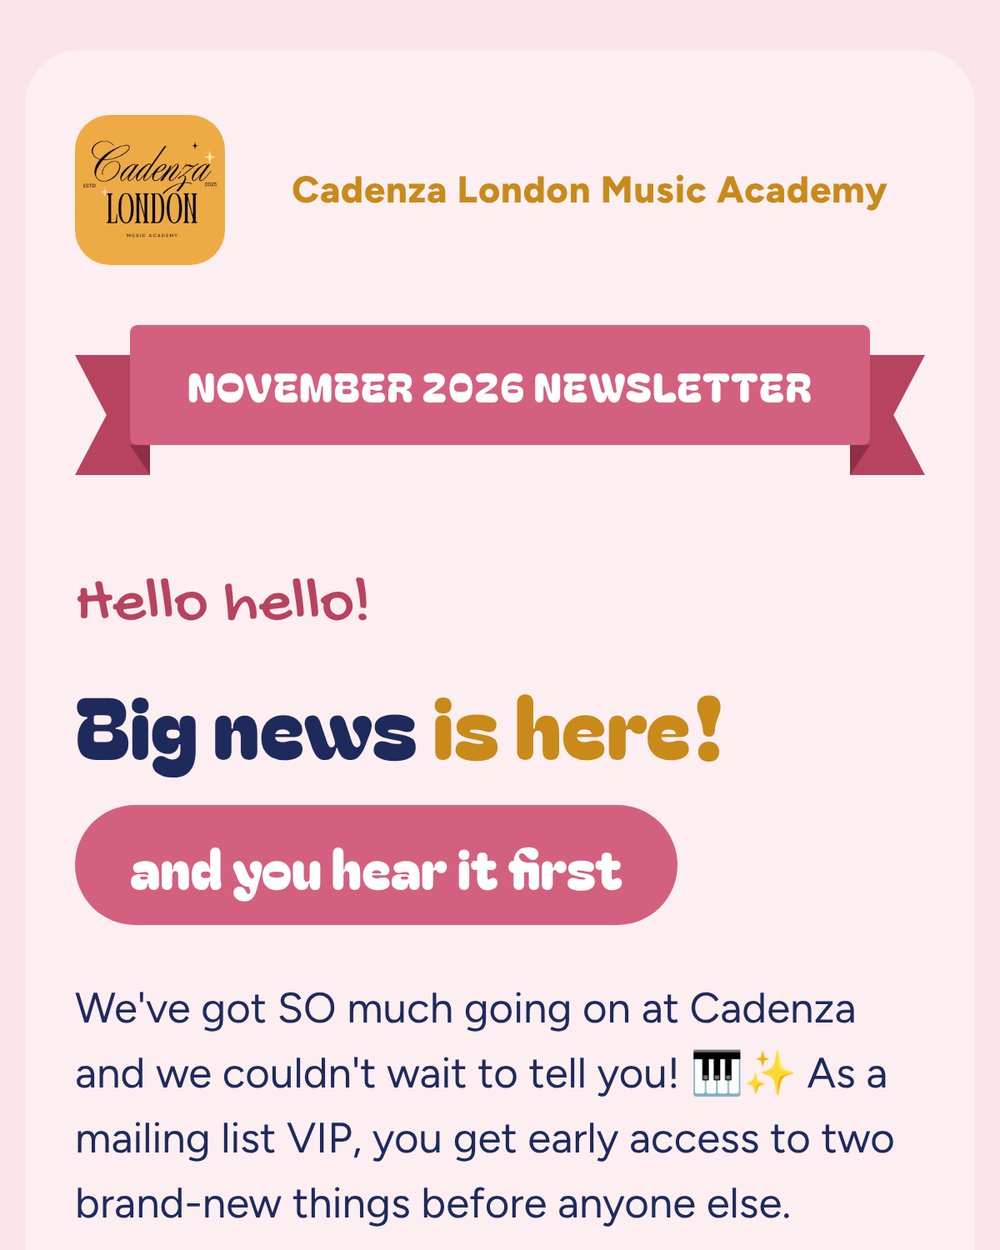
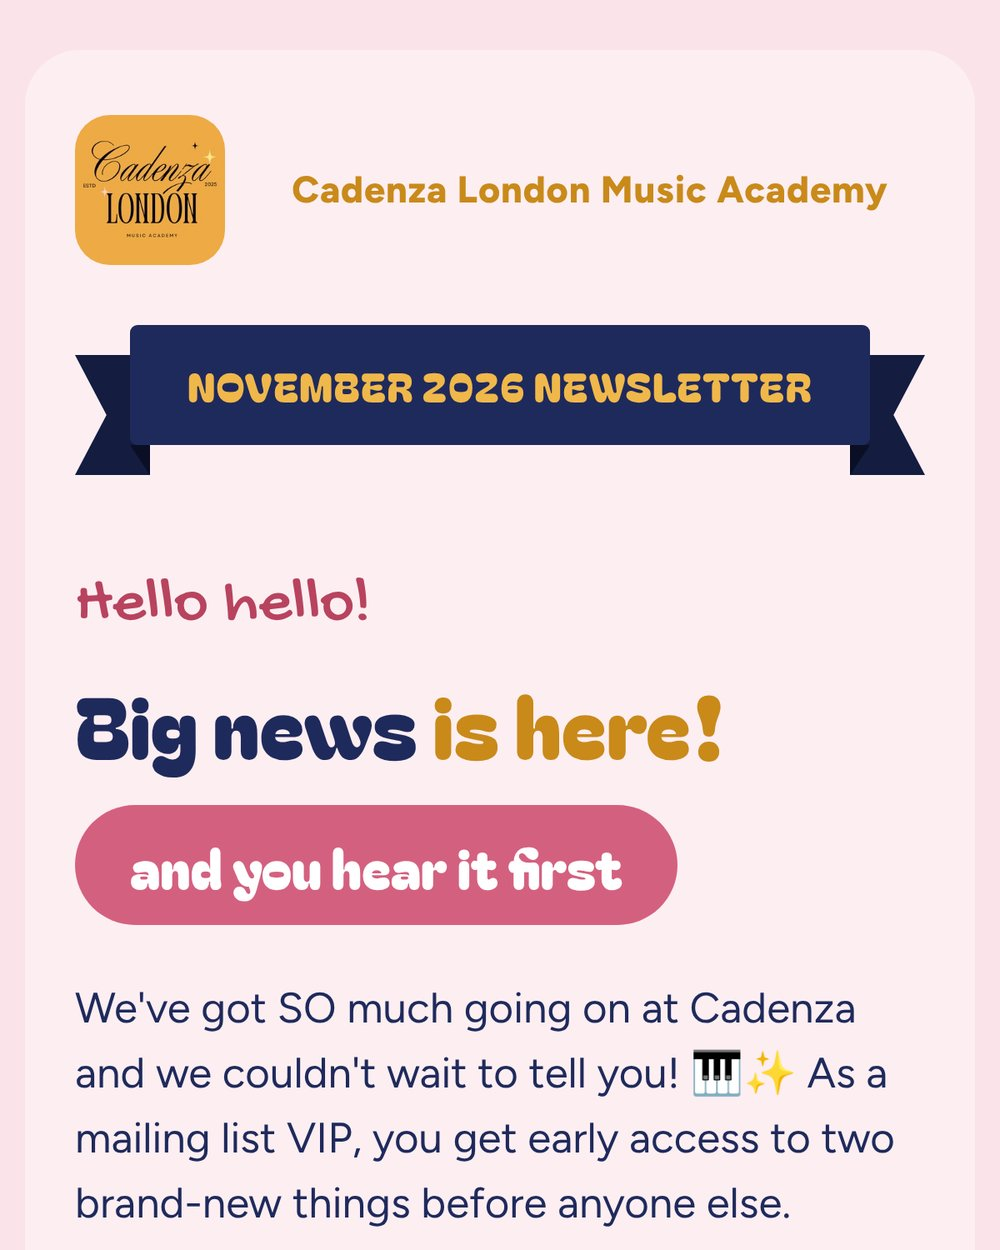
Newsletter Nov 2026: navy ribbon with gold title
Claude-Session: https://claude.ai/code/session_015bt2nYSBxtEEo5rA4rXfs1

Changed region(s): [[0.062, 0.2496, 0.93, 0.4056]]

diff --git a/newsletter-nov2026/email/index.html b/newsletter-nov2026/email/index.html
@@ -26,22 +26,22 @@ Early access: our new Sight-Reading Club is FREE until 31 Dec, the Digital Exam 
 
 <table role="presentation" width="480" cellpadding="0" cellspacing="0" border="0" style="width:100%;max-width:480px;">
   <tr><td style="padding:0;line-height:0;font-size:0;">
-    <a href="https://cadenza-london.com/newsletter-nov2026/" target="_blank"><img src="https://cadenza-london.com/newsletter-nov2026/email/part1.jpg?v=6" width="480" alt="Cadenza London Music Academy. November 2026 Newsletter. Hello hello! Big news is here, and you hear it first. We've got so much going on at Cadenza: as a mailing list VIP, you get early access to two brand-new things before anyone else." style="display:block;width:100%;max-width:480px;height:auto;"></a>
+    <a href="https://cadenza-london.com/newsletter-nov2026/" target="_blank"><img src="https://cadenza-london.com/newsletter-nov2026/email/part1.jpg?v=7" width="480" alt="Cadenza London Music Academy. November 2026 Newsletter. Hello hello! Big news is here, and you hear it first. We've got so much going on at Cadenza: as a mailing list VIP, you get early access to two brand-new things before anyone else." style="display:block;width:100%;max-width:480px;height:auto;"></a>
   </td></tr>
   <tr><td style="padding:0;line-height:0;font-size:0;">
-    <a href="https://cadenza-london.com/sight-reading-club#book" target="_blank"><img src="https://cadenza-london.com/newsletter-nov2026/email/part2.jpg?v=6" width="480" alt="New launch: Sight-Reading Club starts Tuesday 3 November, free every session until 31 December. Weekly on Zoom, Tuesdays 6:00–6:45pm, 8 players max. Beginner Grades 1–3, Intermediate Grades 4–6. From January £8/£10 a session or monthly plans from £15; Cadenza students get 1 free session a month. Tap to book your free place." style="display:block;width:100%;max-width:480px;height:auto;"></a>
+    <a href="https://cadenza-london.com/sight-reading-club#book" target="_blank"><img src="https://cadenza-london.com/newsletter-nov2026/email/part2.jpg?v=7" width="480" alt="New launch: Sight-Reading Club starts Tuesday 3 November, free every session until 31 December. Weekly on Zoom, Tuesdays 6:00–6:45pm, 8 players max. Beginner Grades 1–3, Intermediate Grades 4–6. From January £8/£10 a session or monthly plans from £15; Cadenza students get 1 free session a month. Tap to book your free place." style="display:block;width:100%;max-width:480px;height:auto;"></a>
   </td></tr>
   <tr><td style="padding:0;line-height:0;font-size:0;">
-    <a href="https://cadenza-london.com/digital-exam-ready/" target="_blank"><img src="https://cadenza-london.com/newsletter-nov2026/email/part3.jpg?v=6" width="480" alt="VIP early access: the in-person 4-week Digital Exam Ready Course starts in November 2026. Masterclass format, a mock exam day and a recording day on a grand piano with a videographer, for ABRSM and Trinity digital exams. Taught by Eric: 100% passing rate. Tap to get early access." style="display:block;width:100%;max-width:480px;height:auto;"></a>
+    <a href="https://cadenza-london.com/digital-exam-ready/" target="_blank"><img src="https://cadenza-london.com/newsletter-nov2026/email/part3.jpg?v=7" width="480" alt="VIP early access: the in-person 4-week Digital Exam Ready Course starts in November 2026. Masterclass format, a mock exam day and a recording day on a grand piano with a videographer, for ABRSM and Trinity digital exams. Taught by Eric: 100% passing rate. Tap to get early access." style="display:block;width:100%;max-width:480px;height:auto;"></a>
   </td></tr>
   <tr><td style="padding:0;line-height:0;font-size:0;">
-    <a href="https://cadenza-questionnaire-2027.netlify.app" target="_blank"><img src="https://cadenza-london.com/newsletter-nov2026/email/part4.jpg?v=6" width="480" alt="Photos from our Christmas concert 2025. Missed our concert last year end? We're now planning a concert or competition in January or February 2027. Tap to vote for our 2027 event: your opinion matters!" style="display:block;width:100%;max-width:480px;height:auto;"></a>
+    <a href="https://cadenza-questionnaire-2027.netlify.app" target="_blank"><img src="https://cadenza-london.com/newsletter-nov2026/email/part4.jpg?v=7" width="480" alt="Photos from our Christmas concert 2025. Missed our concert last year end? We're now planning a concert or competition in January or February 2027. Tap to vote for our 2027 event: your opinion matters!" style="display:block;width:100%;max-width:480px;height:auto;"></a>
   </td></tr>
   <tr><td style="padding:0;line-height:0;font-size:0;">
-    <a href="mailto:music@cadenza-london.com" target="_blank"><img src="https://cadenza-london.com/newsletter-nov2026/email/part5.jpg?v=6" width="480" alt="Looking for photos of your child at the concert? If you can't find them in the Google Drive folder, email music@cadenza-london.com and we'll send them over. Questions? Just reply to this email. Eric and Jessica x" style="display:block;width:100%;max-width:480px;height:auto;"></a>
+    <a href="mailto:music@cadenza-london.com" target="_blank"><img src="https://cadenza-london.com/newsletter-nov2026/email/part5.jpg?v=7" width="480" alt="Looking for photos of your child at the concert? If you can't find them in the Google Drive folder, email music@cadenza-london.com and we'll send them over. Questions? Just reply to this email. Eric and Jessica x" style="display:block;width:100%;max-width:480px;height:auto;"></a>
   </td></tr>
   <tr><td style="padding:0;line-height:0;font-size:0;">
-    <a href="https://cadenza-london.com" target="_blank"><img src="https://cadenza-london.com/newsletter-nov2026/email/part6.jpg?v=6" width="480" alt="Cadenza London Music Academy, Colindale, North London and online. cadenza-london.com, @cadenza.london, music@cadenza-london.com" style="display:block;width:100%;max-width:480px;height:auto;"></a>
+    <a href="https://cadenza-london.com" target="_blank"><img src="https://cadenza-london.com/newsletter-nov2026/email/part6.jpg?v=7" width="480" alt="Cadenza London Music Academy, Colindale, North London and online. cadenza-london.com, @cadenza.london, music@cadenza-london.com" style="display:block;width:100%;max-width:480px;height:auto;"></a>
   </td></tr>
   <tr><td align="center" style="padding:14px 16px 24px;font-family:Arial,Helvetica,sans-serif;font-size:12px;line-height:18px;color:#8a7f86;">
     Can't see the pictures? <a href="https://cadenza-london.com/newsletter-nov2026/" target="_blank" style="color:#8a7f86;text-decoration:underline;">View this newsletter online</a>.<br>

diff --git a/newsletter-nov2026/index.html b/newsletter-nov2026/index.html
@@ -66,13 +66,13 @@ Early access: our new Sight-Reading Club is FREE until 31 Dec, and the Digital E
   <tr>
     <td class="pad" align="center" style="padding:24px 22px 0;">
       <div style="position:relative;display:flex;justify-content:center;align-items:flex-start;padding-bottom:12px;">
-        <div style="flex:none;width:30px;height:48px;margin-top:12px;margin-right:-8px;background:#b8435f;clip-path:polygon(0 0,100% 0,100% 100%,0 100%,42% 50%);-webkit-clip-path:polygon(0 0,100% 0,100% 100%,0 100%,42% 50%);"></div>
-        <div style="flex:1;min-width:0;position:relative;z-index:1;background:#d4607f;height:48px;border-radius:3px;text-align:center;">
-          <span class="ribbontext" style="display:block;font-family:'Bagel Fat One','Arial Rounded MT Bold','Arial Black',Arial,sans-serif;font-size:21px;line-height:48px;letter-spacing:1px;color:#ffffff;white-space:nowrap;">NOVEMBER 2026 NEWSLETTER</span>
-          <span style="position:absolute;left:0;bottom:-12px;width:0;height:0;border-top:12px solid #8e2f47;border-left:8px solid transparent;"></span>
-          <span style="position:absolute;right:0;bottom:-12px;width:0;height:0;border-top:12px solid #8e2f47;border-right:8px solid transparent;"></span>
+        <div style="flex:none;width:30px;height:48px;margin-top:12px;margin-right:-8px;background:#141c40;clip-path:polygon(0 0,100% 0,100% 100%,0 100%,42% 50%);-webkit-clip-path:polygon(0 0,100% 0,100% 100%,0 100%,42% 50%);"></div>
+        <div style="flex:1;min-width:0;position:relative;z-index:1;background:#1f2a5c;height:48px;border-radius:3px;text-align:center;">
+          <span class="ribbontext" style="display:block;font-family:'Bagel Fat One','Arial Rounded MT Bold','Arial Black',Arial,sans-serif;font-size:21px;line-height:48px;letter-spacing:1px;color:#f0b84b;white-space:nowrap;">NOVEMBER 2026 NEWSLETTER</span>
+          <span style="position:absolute;left:0;bottom:-12px;width:0;height:0;border-top:12px solid #0a0f26;border-left:8px solid transparent;"></span>
+          <span style="position:absolute;right:0;bottom:-12px;width:0;height:0;border-top:12px solid #0a0f26;border-right:8px solid transparent;"></span>
         </div>
-        <div style="flex:none;width:30px;height:48px;margin-top:12px;margin-left:-8px;background:#b8435f;clip-path:polygon(0 0,100% 0,58% 50%,100% 100%,0 100%);-webkit-clip-path:polygon(0 0,100% 0,58% 50%,100% 100%,0 100%);"></div>
+        <div style="flex:none;width:30px;height:48px;margin-top:12px;margin-left:-8px;background:#141c40;clip-path:polygon(0 0,100% 0,58% 50%,100% 100%,0 100%);-webkit-clip-path:polygon(0 0,100% 0,58% 50%,100% 100%,0 100%);"></div>
       </div>
     </td>
   </tr>
